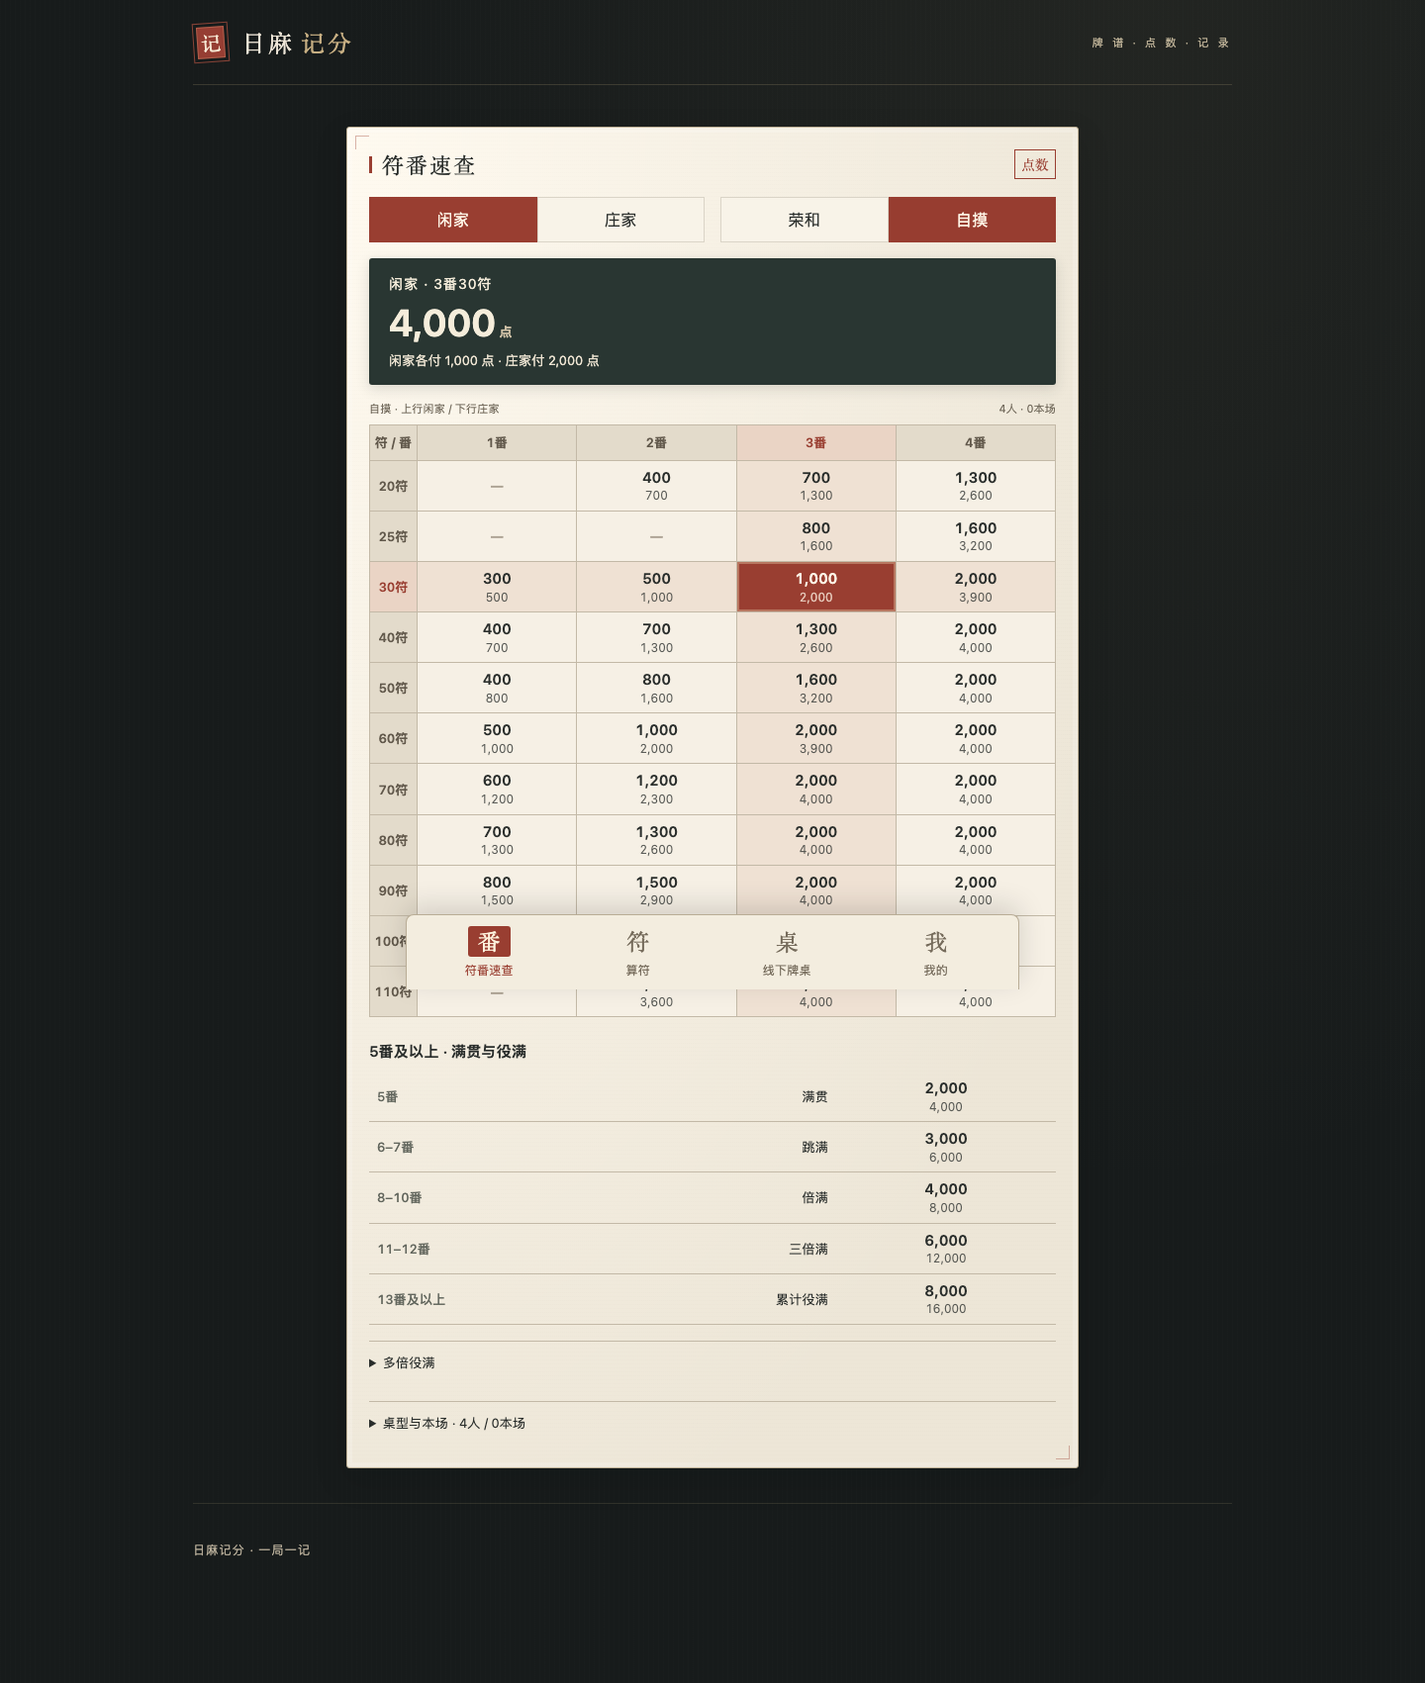
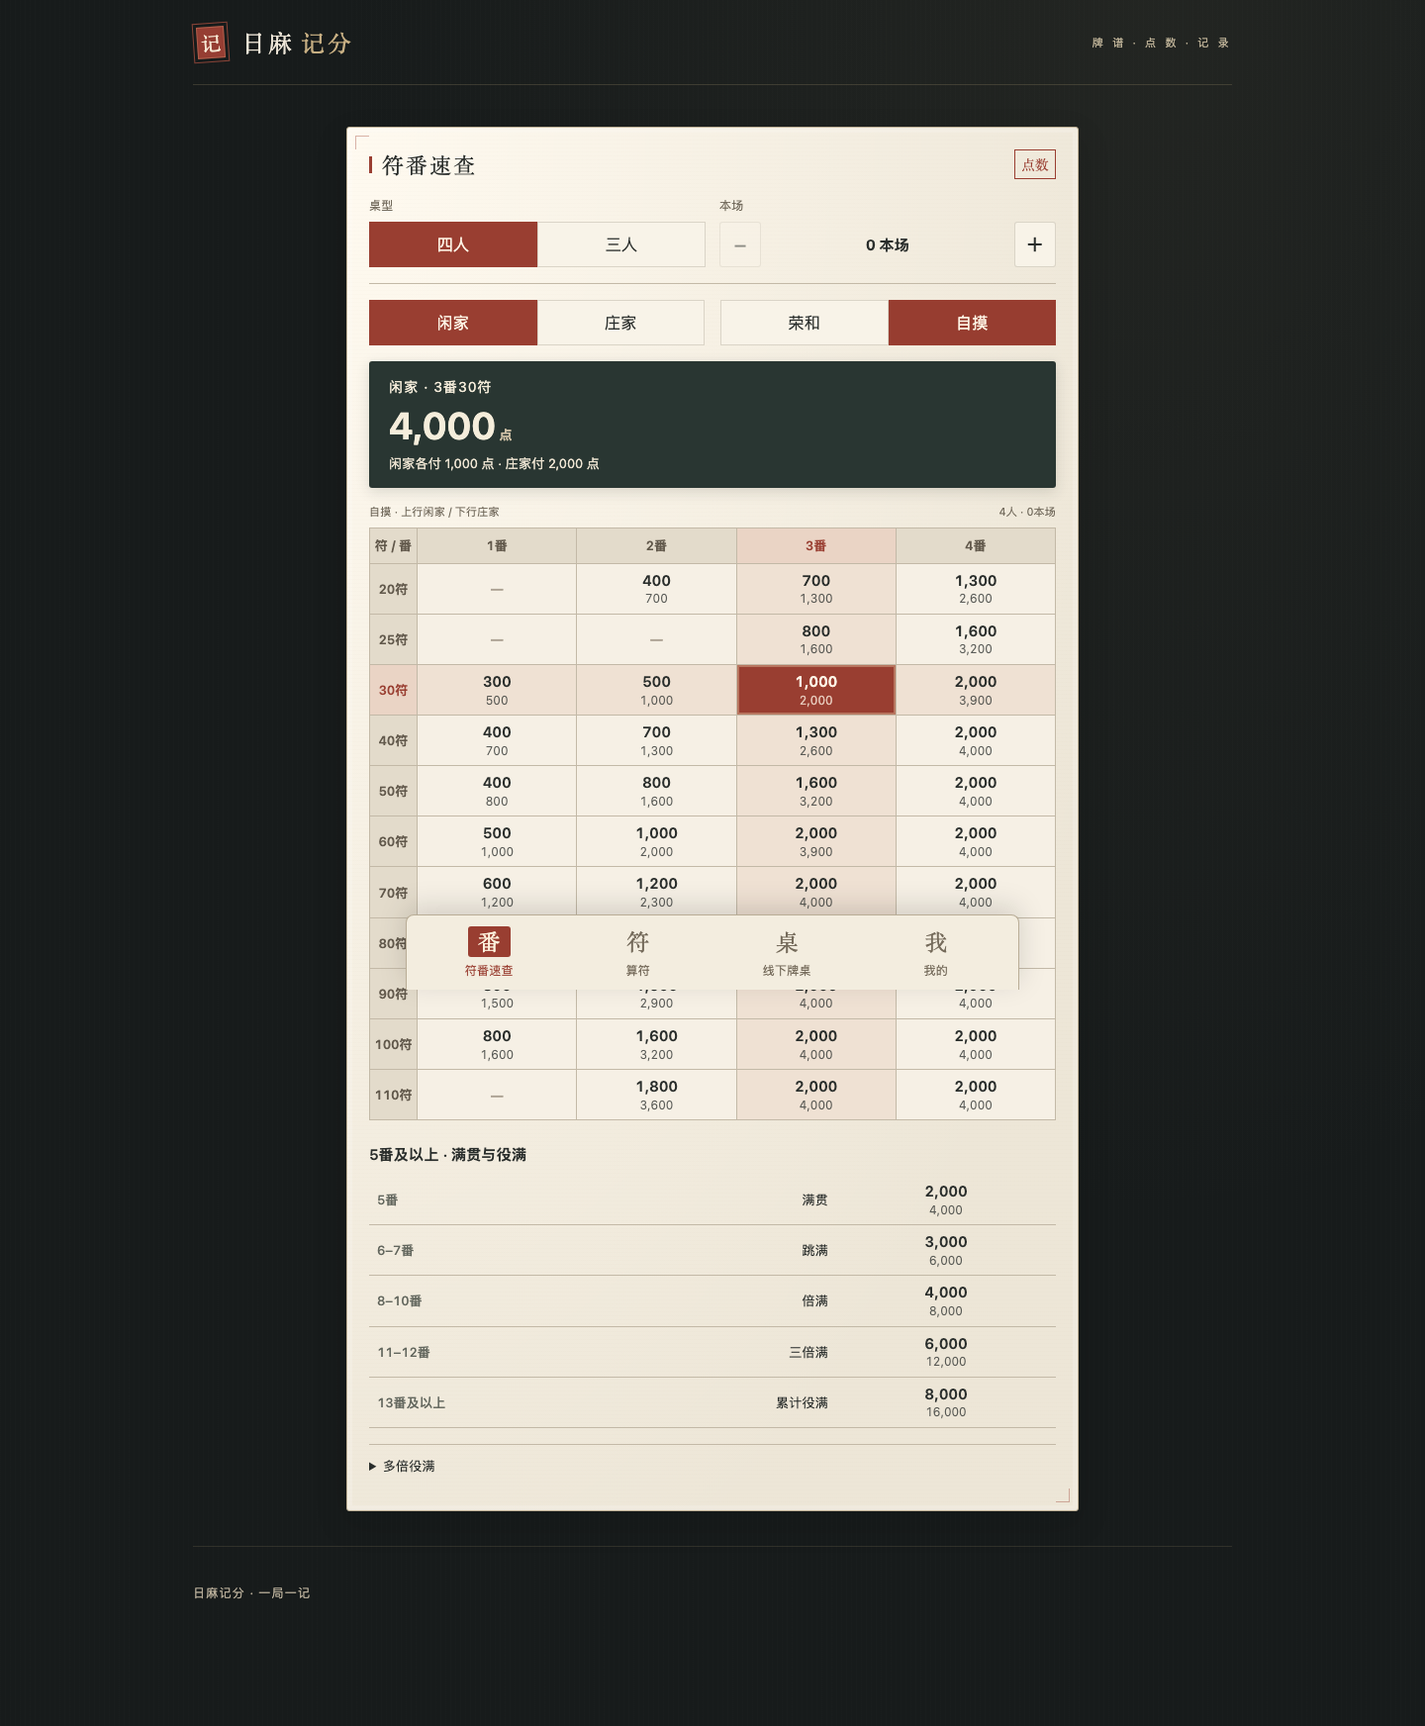
Use touch controls for hand scoring and show table settings first

Changed region(s): [[0.25, 0.0623, 0.75, 0.9036], [0.1875, 0.0, 0.25, 0.0312], [0.1875, 0.9036, 0.2188, 0.9347]]

diff --git a/public/app.js b/public/app.js
@@ -118,6 +118,13 @@ function renderQuick() {
     `<button class="point-cell ${c.selected ? "chosen" : ""}" data-fu="${c.fu}" data-han="${c.han}" data-yakuman="${c.yakuman}" ${c.valid ? "" : "disabled"} aria-pressed="${c.selected}" aria-label="${c.yakuman ? c.title : `${c.han}番${c.fu}符`} ${c.main}${c.sub ? " / " + c.sub : ""}">${amount(c)}</button>`;
   $("#quick").innerHTML =
     `<div class="card lookup-card"><div class="lookup-heading"><h2>符番速查</h2><span class="lookup-mark" aria-hidden="true">点数</span></div>
+    <div class="quick-context"><div><span class="context-label">桌型</span>${chips(
+      "players",
+      [
+        [4, "四人"],
+        [3, "三人"],
+      ],
+    )}</div><div><span class="context-label">本场</span><div class="counter" aria-label="调整本场"><button id="honba-minus" aria-label="减少一本场" ${quick.honba === 0 ? "disabled" : ""}>−</button><strong>${quick.honba} 本场</strong><button id="honba-plus" aria-label="增加一本场" ${quick.honba === 100 ? "disabled" : ""}>＋</button></div></div></div>
     <div class="lookup-switches">${chips("dealer", [
       [false, "闲家"],
       [true, "庄家"],
@@ -130,13 +137,7 @@ function renderQuick() {
     <table class="point-matrix"><thead><tr><th>符 / 番</th>${view.columns.map((c) => `<th class="${c.selected ? "axis-selected" : ""}">${c.han}番</th>`).join("")}</tr></thead><tbody>${view.rows.map((row) => `<tr><th class="${row.selected ? "axis-selected" : ""}">${row.fu}符</th>${row.cells.map((c) => `<td class="${!quick.yakuman && quick.han <= 4 && (quick.fu === c.fu || quick.han === c.han) ? "axis-tint" : ""}">${cellButton(c)}</td>`).join("")}</tr>`).join("")}</tbody></table>
     <h3 class="limit-heading">5番及以上 · 满贯与役满</h3><table class="limit-matrix"><tbody>${view.limits.map((c) => `<tr class="${c.selected ? "limit-selected" : ""}"><th>${c.title}</th><td>${c.label}</td><td>${cellButton(c)}</td></tr>`).join("")}</tbody></table>
     <details class="lookup-more" ${quick.yakuman ? "open" : ""}><summary>多倍役满</summary><table class="limit-matrix"><tbody>${view.yakumans.map((c) => `<tr class="${c.selected ? "limit-selected" : ""}"><th>${c.title}</th><td>${cellButton(c)}</td></tr>`).join("")}</tbody></table></details>
-    <details class="lookup-more"><summary>桌型与本场 · ${quick.players}人 / ${quick.honba}本场</summary>${chips(
-      "players",
-      [
-        [4, "四人"],
-        [3, "三人"],
-      ],
-    )}<div class="counter" aria-label="调整本场"><button id="honba-minus" aria-label="减少一本场" ${quick.honba === 0 ? "disabled" : ""}>−</button><strong>${quick.honba} 本场</strong><button id="honba-plus" aria-label="增加一本场" ${quick.honba === 100 ? "disabled" : ""}>＋</button></div></details></div>`;
+</div>`;
   $("#quick")
     .querySelectorAll("[data-key]")
     .forEach(
@@ -171,7 +172,6 @@ function renderQuick() {
     $("#" + id).onclick = () => {
       quick.honba = Math.max(0, Math.min(100, quick.honba + step));
       renderQuick();
-      $("#quick .lookup-more:last-child").open = true;
     };
 }
 const roundLabel = (hand, n) =>
@@ -379,7 +379,52 @@ function openRecord() {
   };
 }
 function winnerInputs(s, check = false) {
-  return `<div class="winner divider" data-seat="${s}">${check ? `<label class="check"><input type="checkbox" name="winner" value="${s}">${esc(seatName(s))} 和牌</label>` : ""}<div class="grid"><label>番数<input class="han" type="number" min="1" max="100" value="3"></label><label>符数<select class="fu">${FU.map((f) => `<option ${f === 30 ? "selected" : ""}>${f}</option>`).join("")}</select></label><label>役满<select class="yakuman"><option value="0">普通符番</option>${[1, 2, 3, 4, 5, 6].map((n) => `<option value="${n}">${n}倍役满</option>`).join("")}</select></label></div></div>`;
+  return `<div class="winner divider" data-seat="${s}" data-han="3" data-fu="30">${check ? `<label class="check"><input type="checkbox" name="winner" value="${s}">${esc(seatName(s))} 和牌</label>` : ""}<div class="record-label">番数</div><div class="counter record-counter"><button type="button" data-han-step="-1" aria-label="减少一番">−</button><output class="han">3 番</output><button type="button" data-han-step="1" aria-label="增加一番">＋</button></div><div class="record-label">符数</div><div class="fu-choices">${FU.map((f) => `<button type="button" data-fu-choice="${f}" aria-pressed="${f === 30}" class="${f === 30 ? "selected" : ""}">${f}符</button>`).join("")}</div><label>役满<select class="yakuman"><option value="0">普通符番</option>${[1, 2, 3, 4, 5, 6].map((n) => `<option value="${n}">${n}倍役满</option>`).join("")}</select></label></div>`;
+}
+function refreshWinnerControls() {
+  const method = $("#kind").value;
+  if (!["tsumo", "ron"].includes(method)) return;
+  $("#record-fields")
+    .querySelectorAll(".winner")
+    .forEach((el) => {
+      const han = Number(el.dataset.han),
+        fu = Number(el.dataset.fu);
+      const valid = (f) => {
+        try {
+          points({ han, fu: f, method });
+          return true;
+        } catch {
+          return false;
+        }
+      };
+      if (!valid(fu)) el.dataset.fu = "30";
+      el.querySelector(".han").textContent = `${han} 番`;
+      el.querySelectorAll("[data-han-step]").forEach(
+        (b) =>
+          (b.disabled = Number(b.dataset.hanStep) < 0 ? han <= 1 : han >= 100),
+      );
+      el.querySelectorAll("[data-fu-choice]").forEach((b) => {
+        const selected = Number(b.dataset.fuChoice) === Number(el.dataset.fu);
+        b.disabled = !valid(Number(b.dataset.fuChoice));
+        b.classList.toggle("selected", selected);
+        b.setAttribute("aria-pressed", String(selected));
+        b.onclick = () => {
+          el.dataset.fu = b.dataset.fuChoice;
+          refreshWinnerControls();
+          previewEvent();
+        };
+      });
+      el.querySelectorAll("[data-han-step]").forEach(
+        (b) =>
+          (b.onclick = () => {
+            el.dataset.han = String(
+              Math.max(1, Math.min(100, han + Number(b.dataset.hanStep))),
+            );
+            refreshWinnerControls();
+            previewEvent();
+          }),
+      );
+    });
 }
 function recordFields() {
   const kind = $("#kind").value;
@@ -391,6 +436,7 @@ function recordFields() {
         : kind === "draw"
           ? `<p class="muted">勾选流局时听牌的玩家</p>${room.members.map((m, s) => `<label class="check"><input type="checkbox" name="tenpai" value="${s}">${esc(seatName(s))}</label>`).join("")}`
           : '<p class="muted">途中流局不交换点数，保留供托、庄家并增加一本场。</p>';
+  refreshWinnerControls();
   previewEvent();
 }
 function previewEvent() {
@@ -428,8 +474,8 @@ function readEvent() {
         kind === "tsumo"
           ? Number($("#tsumo-seat").value)
           : Number(el.dataset.seat),
-      han: Number(el.querySelector(".han").value),
-      fu: Number(el.querySelector(".fu").value),
+      han: Number(el.dataset.han),
+      fu: Number(el.dataset.fu),
       yakuman: Number(el.querySelector(".yakuman").value),
     }));
   return {

diff --git a/tests/mini-runtime.test.js b/tests/mini-runtime.test.js
@@ -96,14 +96,9 @@ test("小程序记分失败重试同nonce、双响独立符番与实际去重", 
       detail: { value: ["1", "2"] },
     });
     p.choose({ currentTarget: { dataset: { key: "loser", value: 0 } } });
-    p.picker({
-      currentTarget: { dataset: { key: "han", seat: 1 } },
-      detail: { value: "1" },
-    });
-    p.picker({
-      currentTarget: { dataset: { key: "han", seat: 2 } },
-      detail: { value: "2" },
-    });
+    p.stepHan({ currentTarget: { dataset: { seat: 1, step: -1 } } });
+    p.stepHan({ currentTarget: { dataset: { seat: 1, step: -1 } } });
+    p.stepHan({ currentTarget: { dataset: { seat: 2, step: -1 } } });
     await p.save();
     assert.equal(s.raw(r.id).history.length, 1);
     assert.equal(returned, false);
@@ -209,4 +204,48 @@ test("小程序本场加减边界和记分支付明细", async () => {
   assert.equal(record.data.details.rows[1].bonus, 200);
   assert.equal(record.data.details.rows[1].total, 2200);
   assert.equal(record.data.details.next.honba, 3);
+});
+
+test("小程序记分番数加减、符数点选、下限与弱网nonce更新", async () => {
+  const r = {
+    id: "test",
+    isOwner: true,
+    version: 0,
+    rules: { players: 4, start: 25000, kiriage: false, kazoe: true },
+    scores: [25000, 25000, 25000, 25000],
+    members: [0, 1, 2, 3].map((i) => ({ name: "玩家" + i })),
+    dealer: 0,
+    hand: 0,
+    honba: 1,
+    pot: 0,
+    history: [],
+  };
+  const p = page("record", { api: async () => r });
+  p.id = "test";
+  await p.load();
+  const step = (n) =>
+    p.stepHan({ currentTarget: { dataset: { seat: 0, step: n } } });
+  const fu = (index) =>
+    p.chooseFu({ currentTarget: { dataset: { seat: 0, index } } });
+  step(1);
+  fu(3);
+  assert.equal(p.data.winForms[0].han, 4);
+  assert.equal(p.event().winners[0].fu, 40);
+  assert.equal(p.data.details.rows[1].total, 4100);
+  step(-1);
+  step(-1);
+  fu(0);
+  assert.equal(p.event().winners[0].fu, 20);
+  p.nonce = "old";
+  step(-1);
+  assert.equal(p.data.winForms[0].han, 1);
+  assert.equal(p.event().winners[0].fu, 30);
+  assert.equal(p.nonce, null);
+  step(-1);
+  assert.equal(p.data.winForms[0].han, 1);
+  fu(0);
+  assert.equal(p.event().winners[0].fu, 30);
+  p.data.winForms[0].han = 100;
+  step(1);
+  assert.equal(p.data.winForms[0].han, 100);
 });

diff --git a/miniprogram/pages/record/index.js b/miniprogram/pages/record/index.js
@@ -1,12 +1,21 @@
 const { api, nonce, error } = require("../../utils/api");
 const { roundStatus, settlementView } = require("../../utils/settlement-view");
-const { FU } = require("../../utils/scoring");
+const { FU, points } = require("../../utils/scoring");
 Page({
   data: {
     room: null,
     kind: "win",
     method: "tsumo",
     fu: FU,
+    yakumans: [
+      "普通符番",
+      "役满",
+      "2倍役满",
+      "3倍役满",
+      "4倍役满",
+      "5倍役满",
+      "6倍役满",
+    ],
     han: 3,
     fuIndex: 2,
     winners: [0],
@@ -31,7 +40,12 @@ Page({
         room,
         status: roundStatus(room),
         names: room.members.map((m) => m?.name || "空位"),
-        winForms: room.members.map(() => ({ han: 3, fuIndex: 2, yakuman: 0 })),
+        winForms: room.members.map((_, seat) => ({
+          seat,
+          han: 3,
+          fuIndex: 2,
+          yakuman: 0,
+        })),
       });
       this.refresh();
     } catch (e) {
@@ -52,6 +66,23 @@ Page({
         e.detail.value,
       ),
     });
+    this.nonce = null;
+    this.refresh();
+  },
+  stepHan(e) {
+    const { seat, step } = e.currentTarget.dataset;
+    const han = Math.max(
+      1,
+      Math.min(100, this.data.winForms[seat].han + Number(step)),
+    );
+    this.setData({ ["winForms[" + seat + "].han"]: han });
+    this.nonce = null;
+    this.refresh();
+  },
+  chooseFu(e) {
+    const { seat, index } = e.currentTarget.dataset;
+    if (!this.data.fuChoices[seat][index].valid) return;
+    this.setData({ ["winForms[" + seat + "].fuIndex"]: Number(index) });
     this.nonce = null;
     this.refresh();
   },
@@ -78,7 +109,22 @@ Page({
     };
   },
   refresh() {
+    const method = this.data.method;
+    const fuChoices = this.data.winForms.map((form, seat) => {
+      const valid = (fu) => {
+        try {
+          points({ han: form.han, fu, method });
+          return true;
+        } catch {
+          return false;
+        }
+      };
+      if (!valid(FU[form.fuIndex]))
+        this.setData({ ["winForms[" + seat + "].fuIndex"]: 2 });
+      return FU.map((fu, index) => ({ fu, index, valid: valid(fu) }));
+    });
     this.setData({
+      fuChoices,
       winnerFlags:
         this.data.names?.map((_, i) => this.data.winners.includes(i)) || [],
     });

diff --git a/public/style.css b/public/style.css
@@ -1090,3 +1090,89 @@ body {
   font-size: 14px;
   line-height: 1.7;
 }
+.quick-context {
+  display: grid;
+  grid-template-columns: 1fr 1fr;
+  gap: 14px;
+  margin: 0 0 16px;
+  padding-bottom: 16px;
+  border-bottom: 1px solid #c3b9a7;
+}
+.context-label {
+  display: block;
+  color: #736b5d;
+  font-size: 12px;
+  margin-bottom: 8px;
+}
+.quick-context .choice-row {
+  display: grid;
+  grid-template-columns: 1fr 1fr;
+  gap: 0;
+  margin: 0;
+}
+.quick-context .choice-row button {
+  min-width: 0;
+  border-radius: 0;
+  padding: 8px 4px;
+}
+.quick-context .counter {
+  gap: 0;
+  padding: 0;
+}
+.quick-context .counter button {
+  width: 42px;
+  min-height: 46px;
+  font-size: 22px;
+  padding: 6px;
+}
+.quick-context .counter strong {
+  flex: 1;
+  min-width: 0;
+  font-size: 15px;
+  white-space: nowrap;
+}
+.record-label {
+  font-size: 14px;
+  color: #756b5b;
+  margin: 16px 0 8px;
+}
+.record-counter {
+  justify-content: flex-start;
+  padding: 0;
+  margin: 0 0 16px;
+}
+.record-counter output {
+  font-size: 24px;
+  min-width: 90px;
+  text-align: center;
+  font-weight: 600;
+}
+.fu-choices {
+  display: grid;
+  grid-template-columns: repeat(6, minmax(0, 1fr));
+  gap: 8px;
+  margin: 10px 0 20px;
+}
+.fu-choices button {
+  padding: 8px 2px;
+  font-size: 13px;
+  min-width: 0;
+  min-height: 46px;
+}
+.fu-choices button:disabled {
+  opacity: 0.35;
+  cursor: default;
+}
+@media (max-width: 500px) {
+  .fu-choices {
+    grid-template-columns: repeat(4, minmax(0, 1fr));
+  }
+  .quick-context {
+    gap: 12px;
+    margin-bottom: 12px;
+    padding-bottom: 12px;
+  }
+  .quick-context .counter button {
+    width: 36px;
+  }
+}

diff --git a/miniprogram/pages/quick/index.js b/miniprogram/pages/quick/index.js
@@ -11,7 +11,6 @@ Page({
       yakuman: 0,
     },
     more: false,
-    settings: false,
   },
   onLoad() {
     this.refresh();

diff --git a/docs/wechat-plan.md b/docs/wechat-plan.md
@@ -21,7 +21,7 @@
 
 ## 验证
 
-`npm run sync:mini` 从服务端纯函数生成小程序CommonJS内核；改源函数后必须同步，不手改生成文件。`npm test` 实际83项通过，包含旧库迁移及旧4列sessions兼容、稳定微信身份、资料持久化、统计、权限、微信API边界、小程序页面逻辑与提交丢响应后的实际SQLite去重。`npm run test:browser` 实际8组通过，网页算符回填、月度统计、二维码解码、成员入桌及既有全流程均通过。
+`npm run sync:mini` 从服务端纯函数生成小程序CommonJS内核；改源函数后必须同步，不手改生成文件。`npm test` 实际84项通过，包含旧库迁移及旧4列sessions兼容、稳定微信身份、资料持久化、统计、权限、微信API边界、小程序页面逻辑与提交丢响应后的实际SQLite去重。`npm run test:browser` 实际8组通过，网页算符回填、月度统计、二维码解码、成员入桌及既有全流程均通过。
 
 微信API用合成适配器验证协议，页面逻辑用wx适配器验证；这些不能替代微信编译器、开发者工具渲染或真机。当前未收到AppID/备案域名/AppSecret，尚未实际wx.login、小程序码生成、真机或审核发布。不是已经上线的小程序。后续验收：真实双微信身份、头像昵称选择、扫码/分享入桌、弱网重试、后台返回轮询、重启数据、撤回统计、权限与安卓真机。
 

diff --git a/docs/acceptance.md b/docs/acceptance.md
@@ -66,3 +66,7 @@
 83项测试通过，新增跨三/四人、庄闲、荣和/自摸、双响的基础/本场/最终支付分解，两端模型相同；连续庄家自摸、本场自动增长、荒牌换庄保留本场、立直与供托独立、加减边界均通过。8组浏览器流程验证连庄两次、当前本场、下局预览、付款明细、两次撤回恢复，并保留二维码、成员权限、冲突、刷新与月统计流程。浏览器证明不替代微信工具及真实安卓验收。
 
 本轮源a951112已上线，83项Linux容器测试通过；公网两种浏览器手机尺寸验证本场加减和正确加点、线上同源支付模块与匿名权限。真实合成连庄1本场支付明细截图见screenshots/honba-payment-mobile.png；页面验证不能代替微信发布验收。
+
+## 番数加减、符数点选与顶部设置
+
+84项测试通过：番数边界、符数选择/禁用、合法回退、付款更新、改单重置nonce、多人赢家独立符番与丢响应重试保留。8组完整浏览器流程通过，验证速查桌型/本场常显且位于庄闲之前，记分没有数字输入和符数下拉，4番40符庄家自摸每家4000，回到3番30符后原记分与连庄撤回流程通过。全部WXML标签结构已静态检查；不代表微信编译器或真机验收。

diff --git a/README.md b/README.md
@@ -16,7 +16,7 @@
 
 ## 功能
 
-- 连庄与本场醒目显示，按局自动累加；支付明细列基础点数、本场加点和最终支付，本场速查用加减按钮。
+- 连庄与本场醒目显示，按局自动累加；支付明细列基础点数、本场加点和最终支付，本场速查用加减按钮；桌型与本场放在速查顶部默认展开。
 - 庄家／闲家、荣和／自摸切换；点击符番交叉格查点，满贯至多倍役满按行选择。
 - 点选式算符：门前清荣和、自摸、雀头、等待、刻子/杠子，以及七对子和平和例外。
 - 月度和牌、被胡、放铳次数、净点及同桌输赢统计；撤回后同步重算。
@@ -72,3 +72,5 @@ npm run test:browser
 部署目录、独立数据卷、HTTPS 接入与后续升级见[服务器部署说明](docs/deployment.md)。
 
 原生小程序导入、服务器配置与验收边界见[小程序接手](docs/wechat-plan.md)。
+
+记分时番数用加减按钮、符数直接点选，役满用选择项；每位赢家的符番独立，支付预览实时更新。

diff --git a/docs/design.md b/docs/design.md
@@ -27,3 +27,7 @@
 ## 连庄、本场及支付明细
 
 牌桌与记分页突出当前本场、庄家及连续坐庄次数；连庄次数按当前局有效历史计算，不能把流局后保留的本场误算为新庄连庄。本场仍由原结算内核自动增加或清零，撤回恢复；速查手动调整改为0–100范围加减按钮。记分预览逐人列基础支付、本场加点、最终支付，并显示付款人到赢家的分项、独立立直支出、供托收入、各家净收支及下一局庄家/本场。不改数据库和实际记分规则。两端共用settlement-view模型。
+
+## 纯点按记分与前置桌型
+
+记分页每位赢家独立用番数加减、符数按钮选择；番数范围1–100，非法和牌方式/符番格禁用，调番后不合法符数回到30符，预览实时刷新。小程序役满也改为选择项，无数字键盘。速查桌型、本场默认展开置于最前，常用设置无需查找折叠项。原结算/自动本场/权限/幂等保留。
